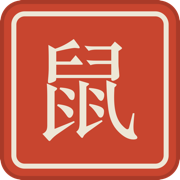
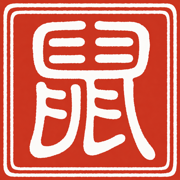
Codex-generated seal and calligraphy replace typeset hanzi
The brand mark / favicons are now a generated carved seal: 鼠 in
seal-script white on vermilion with a double border (白文 style).
The hero's 格物致知 is no longer set type — it's a generated brush
calligraphy title slip (行書, dry-brush strokes, own frame and seal
mark) placed as artwork.

diff --git a/css/main.css b/css/main.css
@@ -238,39 +238,20 @@ input {
   background: rgba(16, 23, 32, 0.34);
 }
 
-/* vertical 格物致知 column — set in a print-style title cartouche (題簽)
-   so it stays legible over the wave art */
+/* 格物致知 — a brush-calligraphy title slip (題簽), generated artwork
+   rather than set type; it carries its own frame and seal */
 .hero-hanzi {
   position: absolute;
   top: 50%;
   right: clamp(1rem, 4vw, 4rem);
   transform: translateY(-50%);
   z-index: 2;
-  writing-mode: vertical-rl;
-  font-family: var(--font-display);
-  font-size: clamp(1.25rem, 2vw, 1.6rem);
-  letter-spacing: 0.5em;
-  padding: 1em 0.38em 0.6em;
-  color: rgba(237, 230, 214, 0.88);
-  background: rgba(13, 18, 26, 0.66);
-  border: 1px solid rgba(237, 230, 214, 0.3);
+  width: clamp(64px, 6.5vw, 96px);
+  height: auto;
   border-radius: 3px;
+  box-shadow: 0 6px 20px rgba(4, 8, 14, 0.5);
   user-select: none;
   pointer-events: none;
-}
-
-.hero-hanzi::after {
-  content: "印";
-  margin-top: 0.9em;
-  writing-mode: horizontal-tb;
-  align-self: center;
-  font-size: 0.62em;
-  line-height: 1.5;
-  letter-spacing: 0;
-  color: #f5efe2;
-  background: var(--vermilion);
-  padding: 0.12em 0.2em;
-  border-radius: 2px;
 }
 
 .hero-content {

diff --git a/index.html b/index.html
@@ -49,7 +49,7 @@
     <section class="hero">
       <img class="hero-art" src="/images/ukiyo-wave-hero.jpg" alt="Indigo woodblock-style night sea: layered waves with foam, a paper moon, and a small shoal of leaping fish">
       <div class="hero-shade"></div>
-      <span class="hero-hanzi" aria-hidden="true">格物致知</span>
+      <img class="hero-hanzi" src="/images/hanzi-gewuzhizhi.jpg" alt="" aria-hidden="true" loading="lazy" width="749" height="2100">
       <div class="hero-content">
         <p class="eyebrow">~/econ-cs-lab :: ink-terminal</p>
         <h1>Shoal/Rat</h1>
